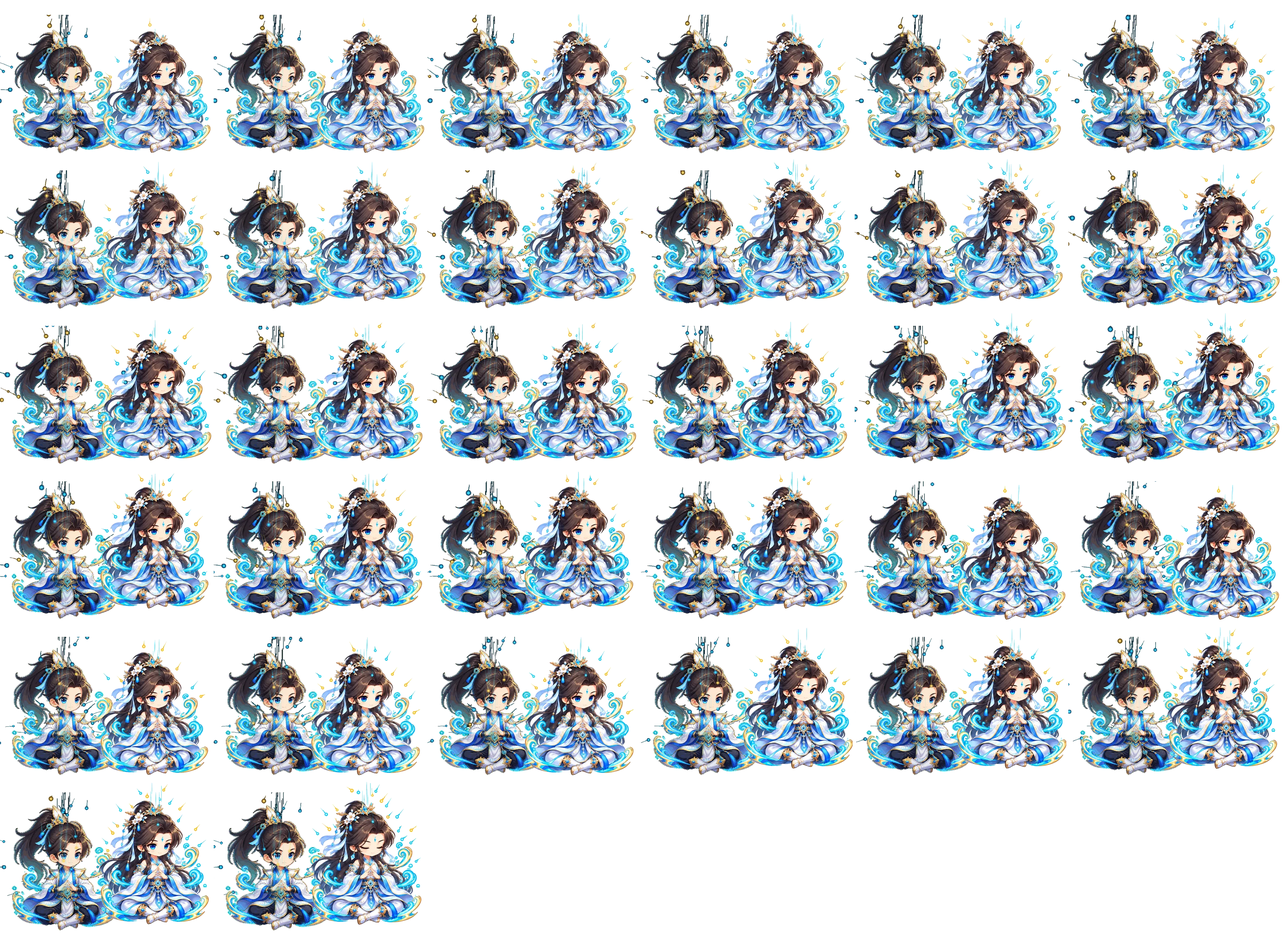
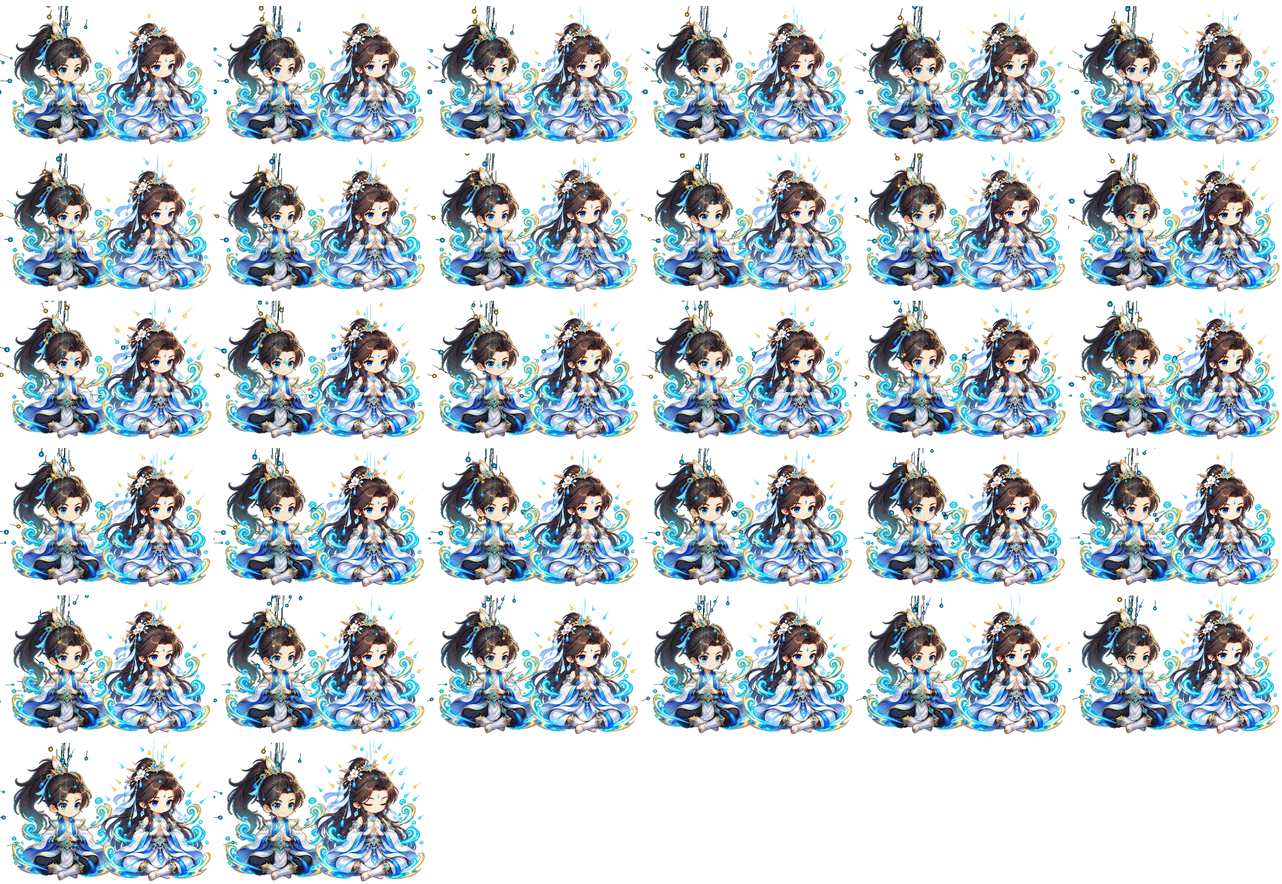
Home: steady the companion in the dual cultivation sheet

diff --git a/src/styles.css b/src/styles.css
@@ -288,7 +288,7 @@ canvas {
 .cultivating-view-toggle button[aria-pressed="true"] { background: linear-gradient(180deg, #ffe39a, #d99a3c); color: #3a2208; font-weight: 700; }
 .cultivating-view-toggle button:focus-visible { outline: 2px solid #fff3c4; outline-offset: 2px; }
 /* Two people side by side: wider and landscape. */
-.cultivating-character--dual { aspect-ratio: 635 / 462; }
+.cultivating-character--dual { aspect-ratio: 635 / 438; }
 /* Each of the two gets the same qi overlay as the solo picture: a square box centred on that person. */
 .qi-breath-box--person { aspect-ratio: 1; height: 132%; top: -16%; transform: translateX(-50%); }
 

diff --git a/src/features/companion/domain/companionSprites.ts b/src/features/companion/domain/companionSprites.ts
@@ -126,7 +126,7 @@ const dualCultivationSprites: Readonly<Record<string, CompanionSprite>> = {
     poster: "/assets/companions/dual_lin_tingxue-poster.webp",
     cols: 6,
     cellWidth: 635,
-    cellHeight: 462,
+    cellHeight: 438,
     steps: range(32).map(cell => ({ cell, holdMs: 80 })),
     blendMs: 0,
   },
